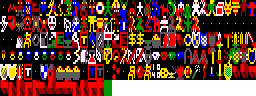
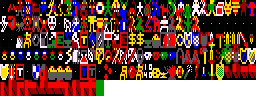
Draw outer OWALL boundary with connecting wall tiles
The top/bottom (and side) boundary walls are OWALL, which was mapped to the
standalone o21 post tile, so they rendered as a row of separate posts.
Map OWALL to the neighbour-aware wall tiles like OINNERWALL.

Claude-Session: https://claude.ai/code/session_01Sp8oX8ozA1dwJgUZo5vwVV

Changed region(s): [[0.0, 0.3125, 1.0, 1.0], [0.0, 0.5, 0.0625, 0.625]]

diff --git a/port/tilemap.h b/port/tilemap.h
@@ -1,6 +1,6 @@
 /* Generated by port/mktiles.py from the Amiga Larn tiles. Do not edit. */
 static const short mon_tile[65] = {0,1,2,3,4,5,6,7,8,9,10,11,12,13,14,15,16,17,18,19,20,21,22,23,24,25,26,27,28,29,30,31,32,33,34,35,36,37,38,39,40,41,42,43,44,45,46,47,48,49,50,51,52,53,54,55,56,57,58,59,60,61,62,63,64};
 /* -1 = text, -2 = wall (wall_tile by neighbours) */
-static const short obj_tile[98] = {65,66,67,68,69,70,71,72,73,74,75,76,77,78,79,80,81,82,83,84,85,86,87,88,89,90,91,92,93,94,95,96,97,98,99,100,101,102,103,104,105,106,107,108,109,110,111,112,113,114,115,116,117,118,119,120,121,122,123,124,125,126,127,128,129,130,131,132,133,134,135,136,137,138,139,140,141,142,143,144,145,146,147,148,-1,149,150,151,152,153,154,155,156,-1,-1,-1,-2,-1};
-static const short wall_tile[16] = {157,158,159,160,161,162,163,164,165,166,167,168,169,170,171,172};
-#define PLAYER_TILE 173
+static const short obj_tile[98] = {65,66,67,68,69,70,71,72,73,74,75,76,77,78,79,80,81,82,83,84,85,-2,86,87,88,89,90,91,92,93,94,95,96,97,98,99,100,101,102,103,104,105,106,107,108,109,110,111,112,113,114,115,116,117,118,119,120,121,122,123,124,125,126,127,128,129,130,131,132,133,134,135,136,137,138,139,140,141,142,143,144,145,146,147,-1,148,149,150,151,152,153,154,155,-1,-1,-1,-2,-1};
+static const short wall_tile[16] = {156,157,158,159,160,161,162,163,164,165,166,167,168,169,170,171};
+#define PLAYER_TILE 172

diff --git a/port/mktiles.py b/port/mktiles.py
@@ -14,7 +14,7 @@ PER_ROW = 32
 MAXMONST_IDS = 65          # 0..64 (DEMONPRINCE)
 MAXOBJECT = 97
 # RL_M object id -> primeau image; None = no tile (drawn as text)
-OBJ_REMAP = {80: 82, 82: 80, 84: None, 93: None, 94: None, 95: None, 96: "wall", 97: None}
+OBJ_REMAP = {21: "wall", 80: 82, 82: 80, 84: None, 93: None, 94: None, 95: None, 96: "wall", 97: None}
 
 names = []
 
